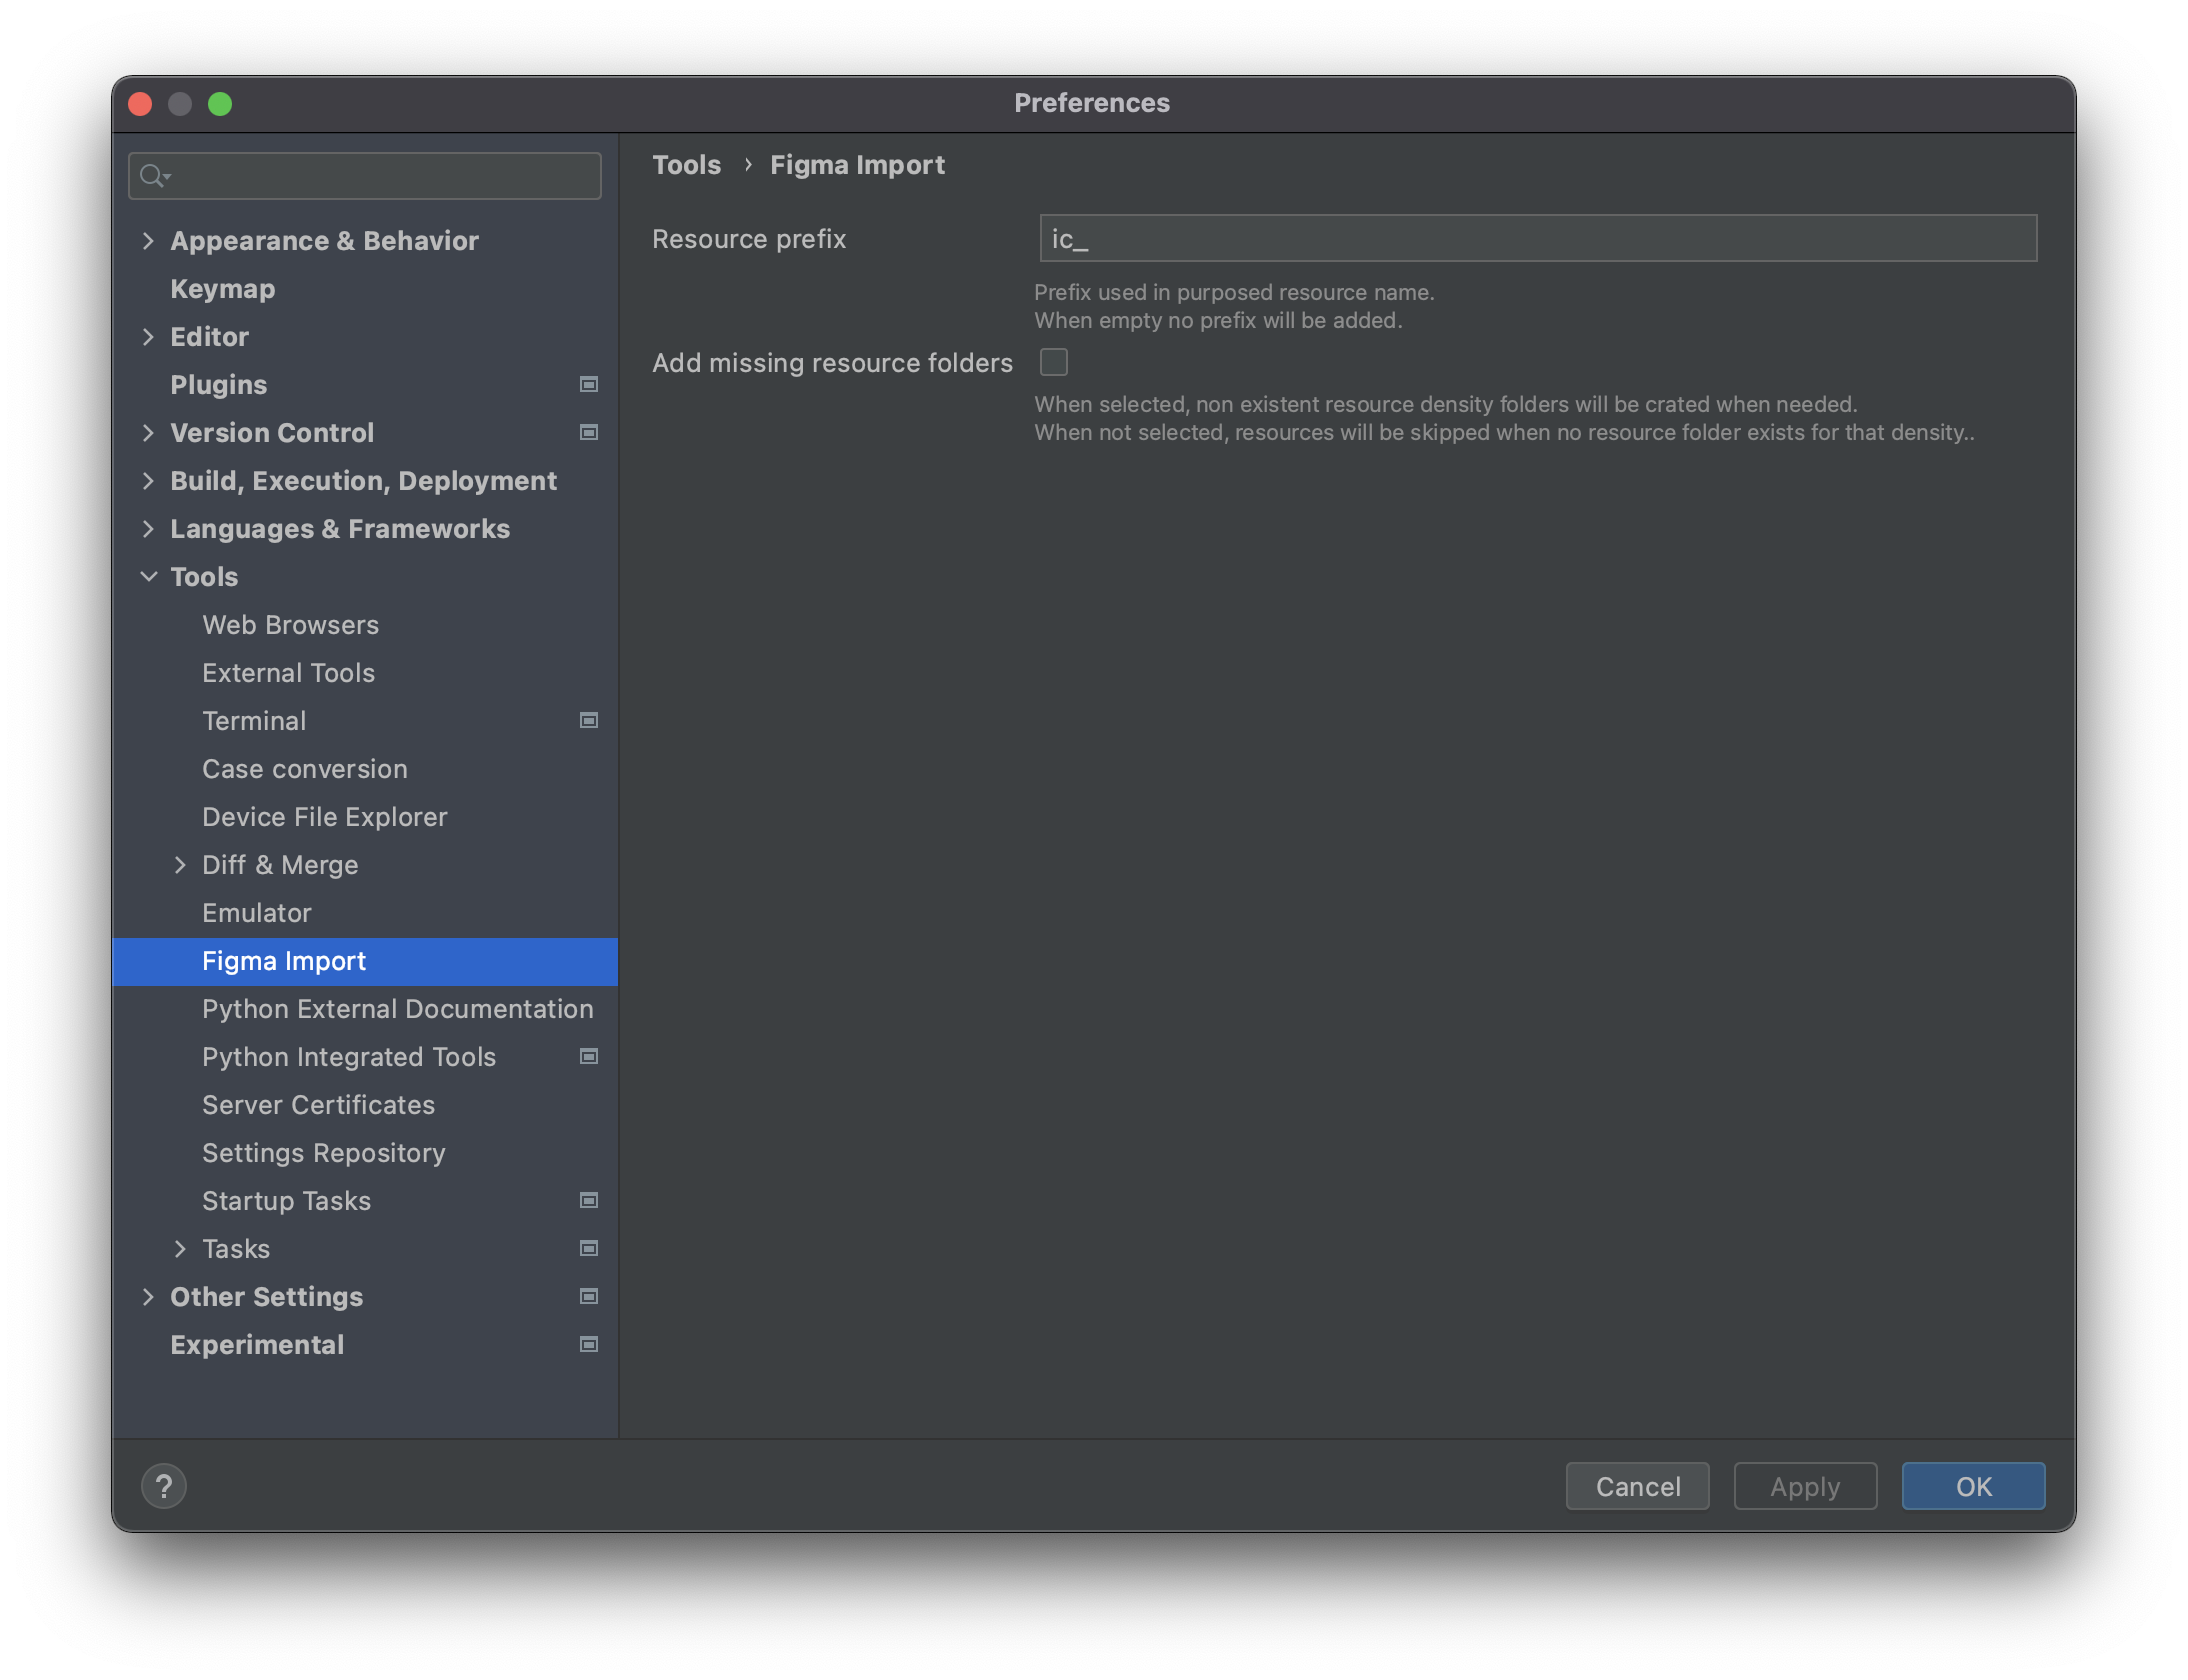
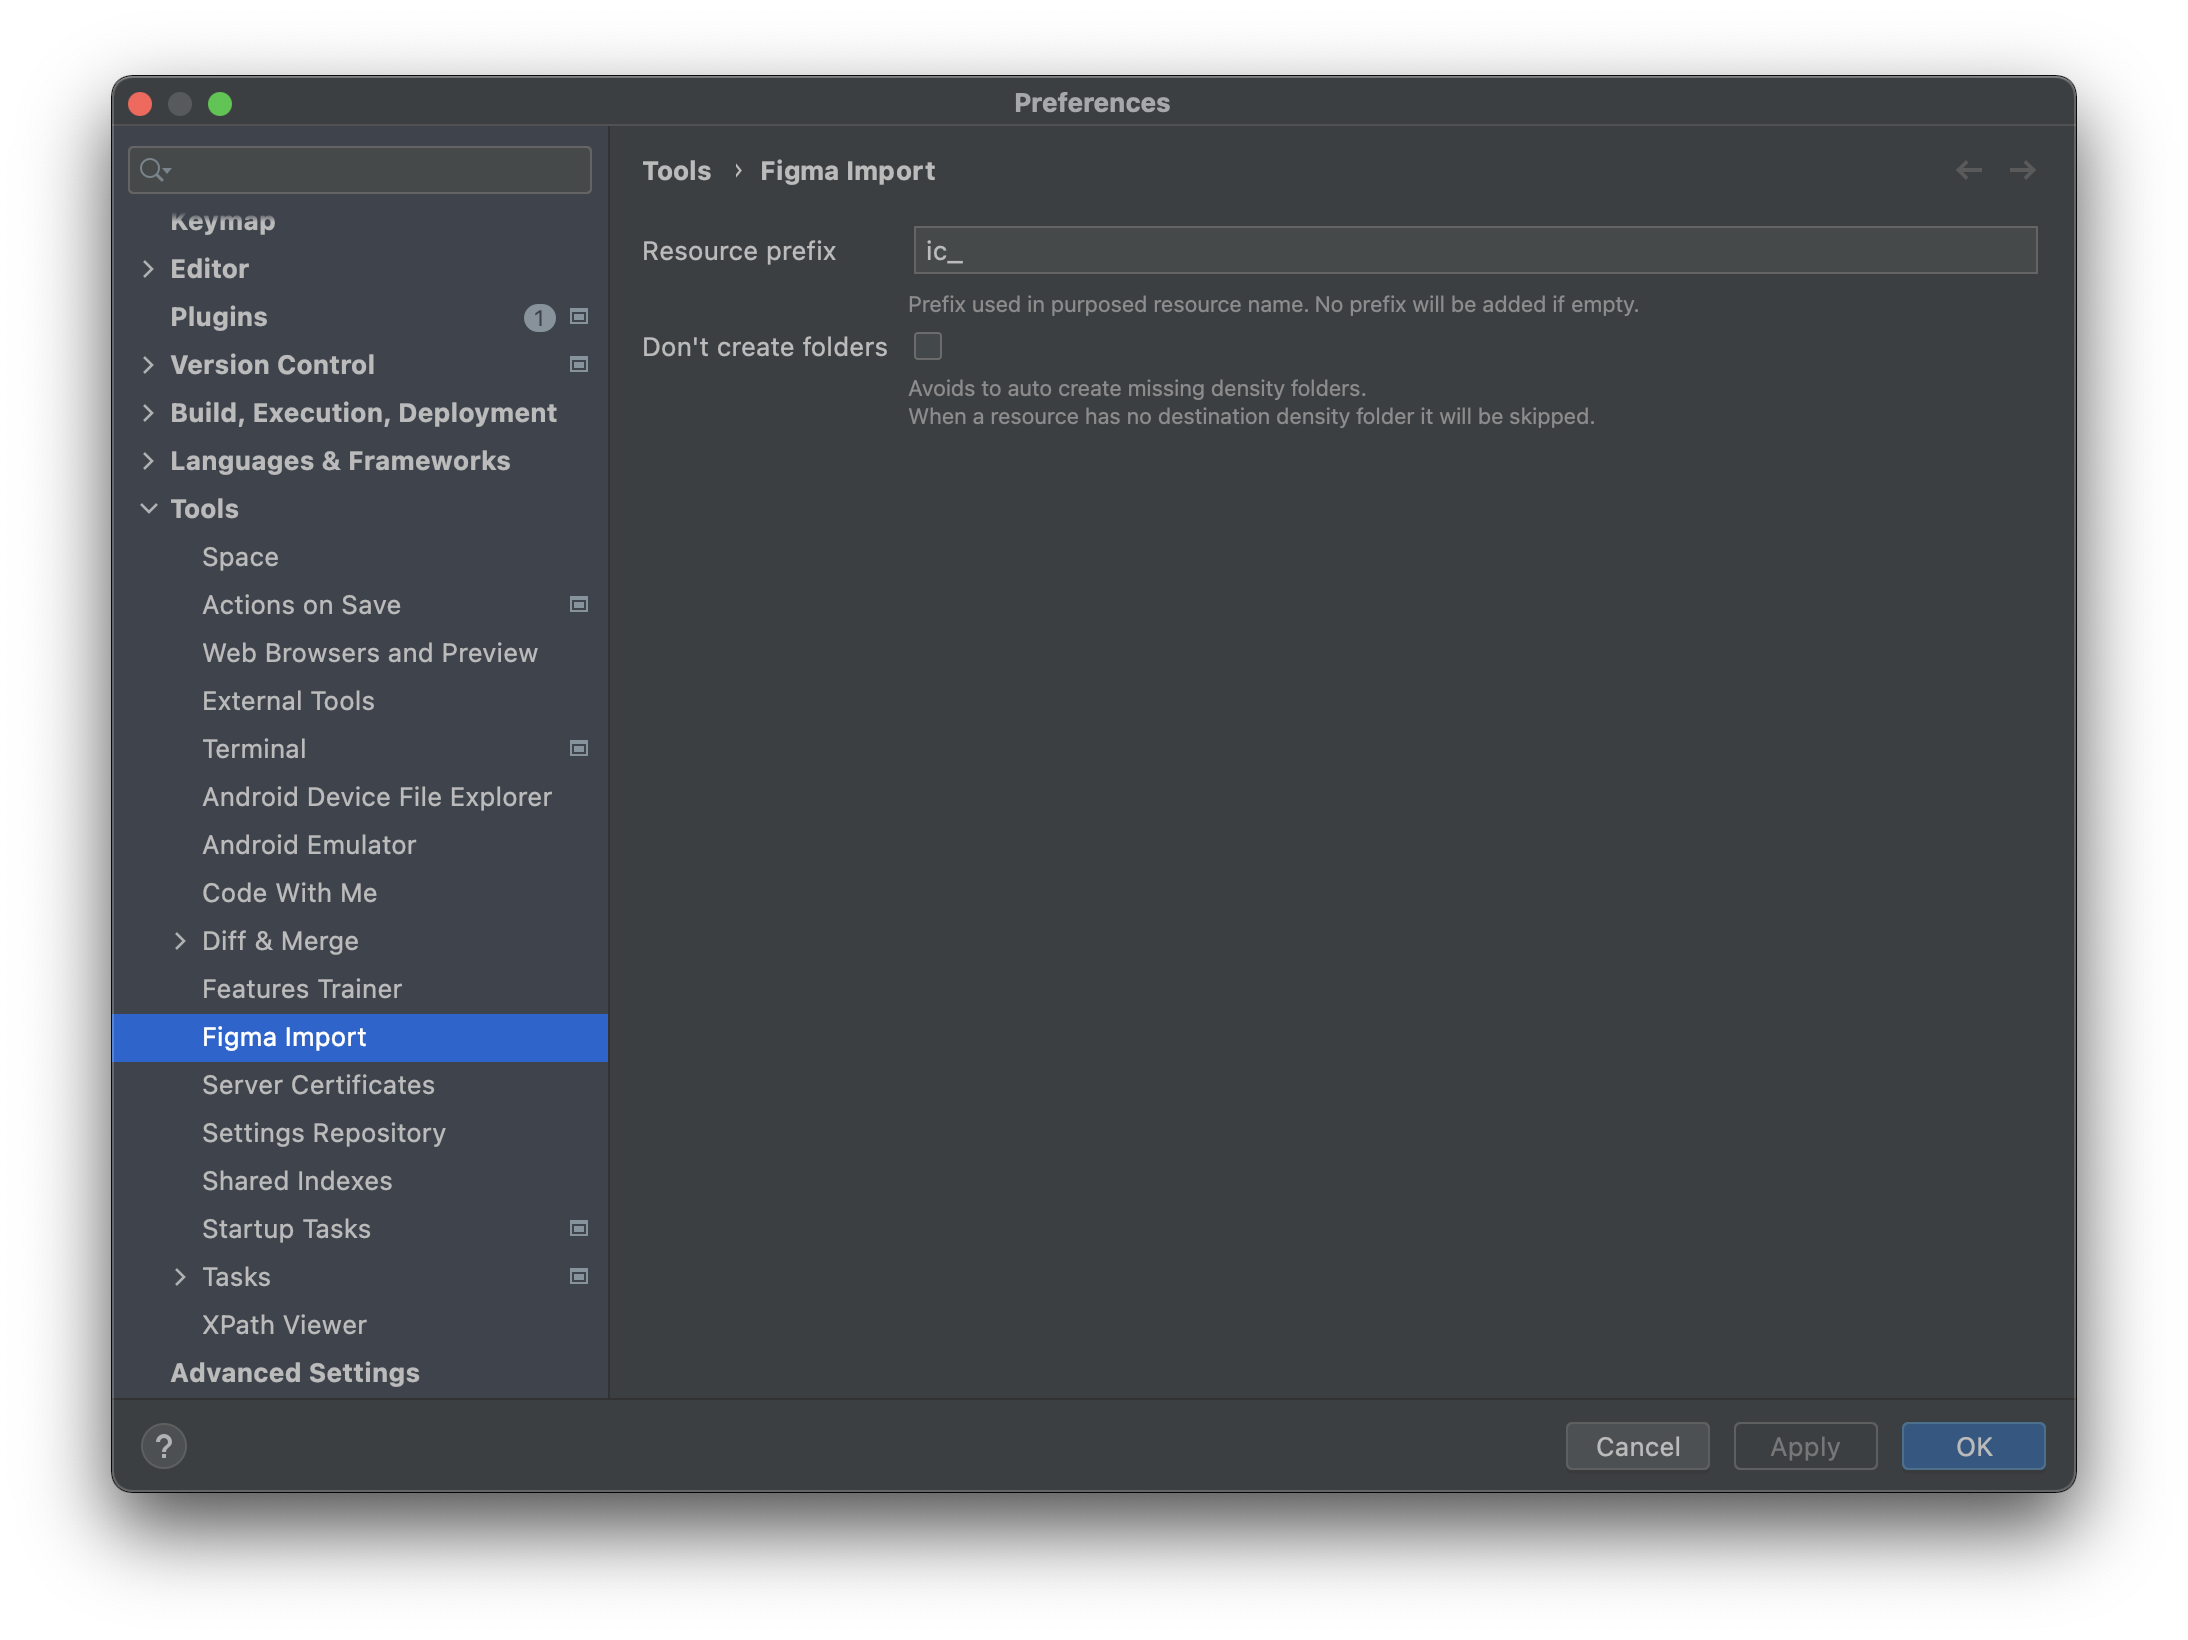
Update images and settings

diff --git a/src/main/kotlin/com/abeade/plugin/figma/settings/ImportSettingsPanelWrapper.kt b/src/main/kotlin/com/abeade/plugin/figma/settings/ImportSettingsPanelWrapper.kt
@@ -14,7 +14,7 @@ class ImportSettingsPanelWrapper(private val propertiesComponent: PropertiesComp
     init {
         settingsPanel.resourcePrefixHelpPanel.layout = BorderLayout()
         settingsPanel.resourcePrefixHelpPanel.add(
-            ComponentPanelBuilder.createCommentComponent("Prefix used in purposed resource name.<br/>When empty no prefix will be added.", false)
+            ComponentPanelBuilder.createCommentComponent("Prefix used in purposed resource name. No prefix will be added if empty.", false)
         )
         settingsPanel.resourceCreateHelpPanel.layout = BorderLayout()
         settingsPanel.resourceCreateHelpPanel.add(
